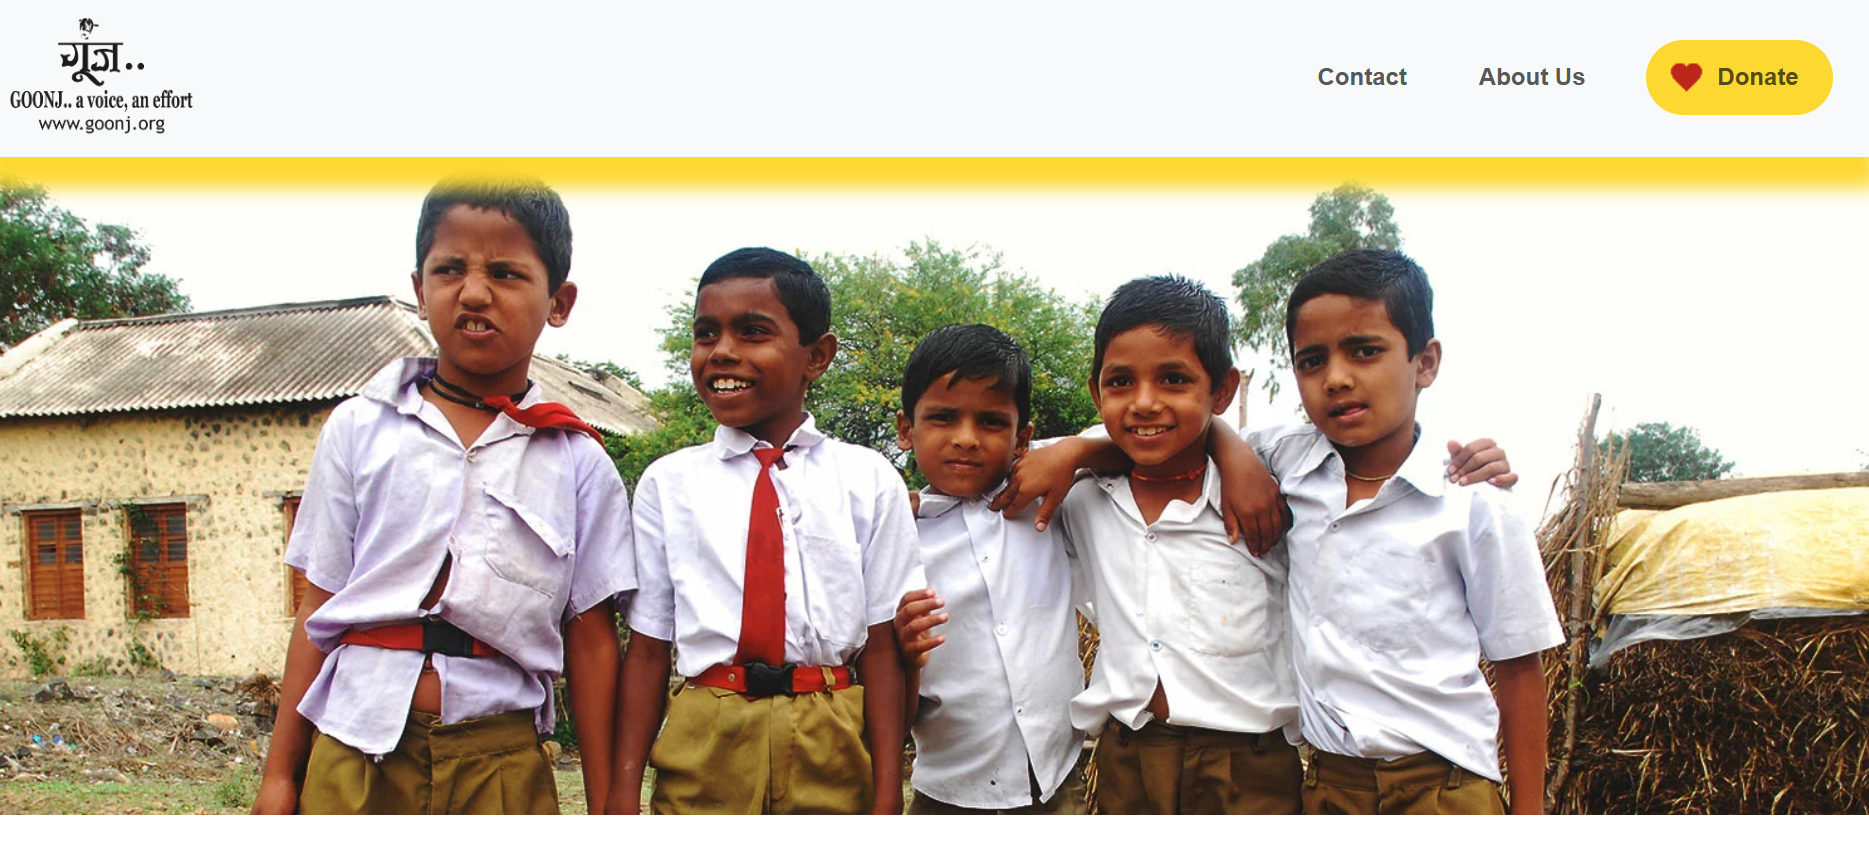
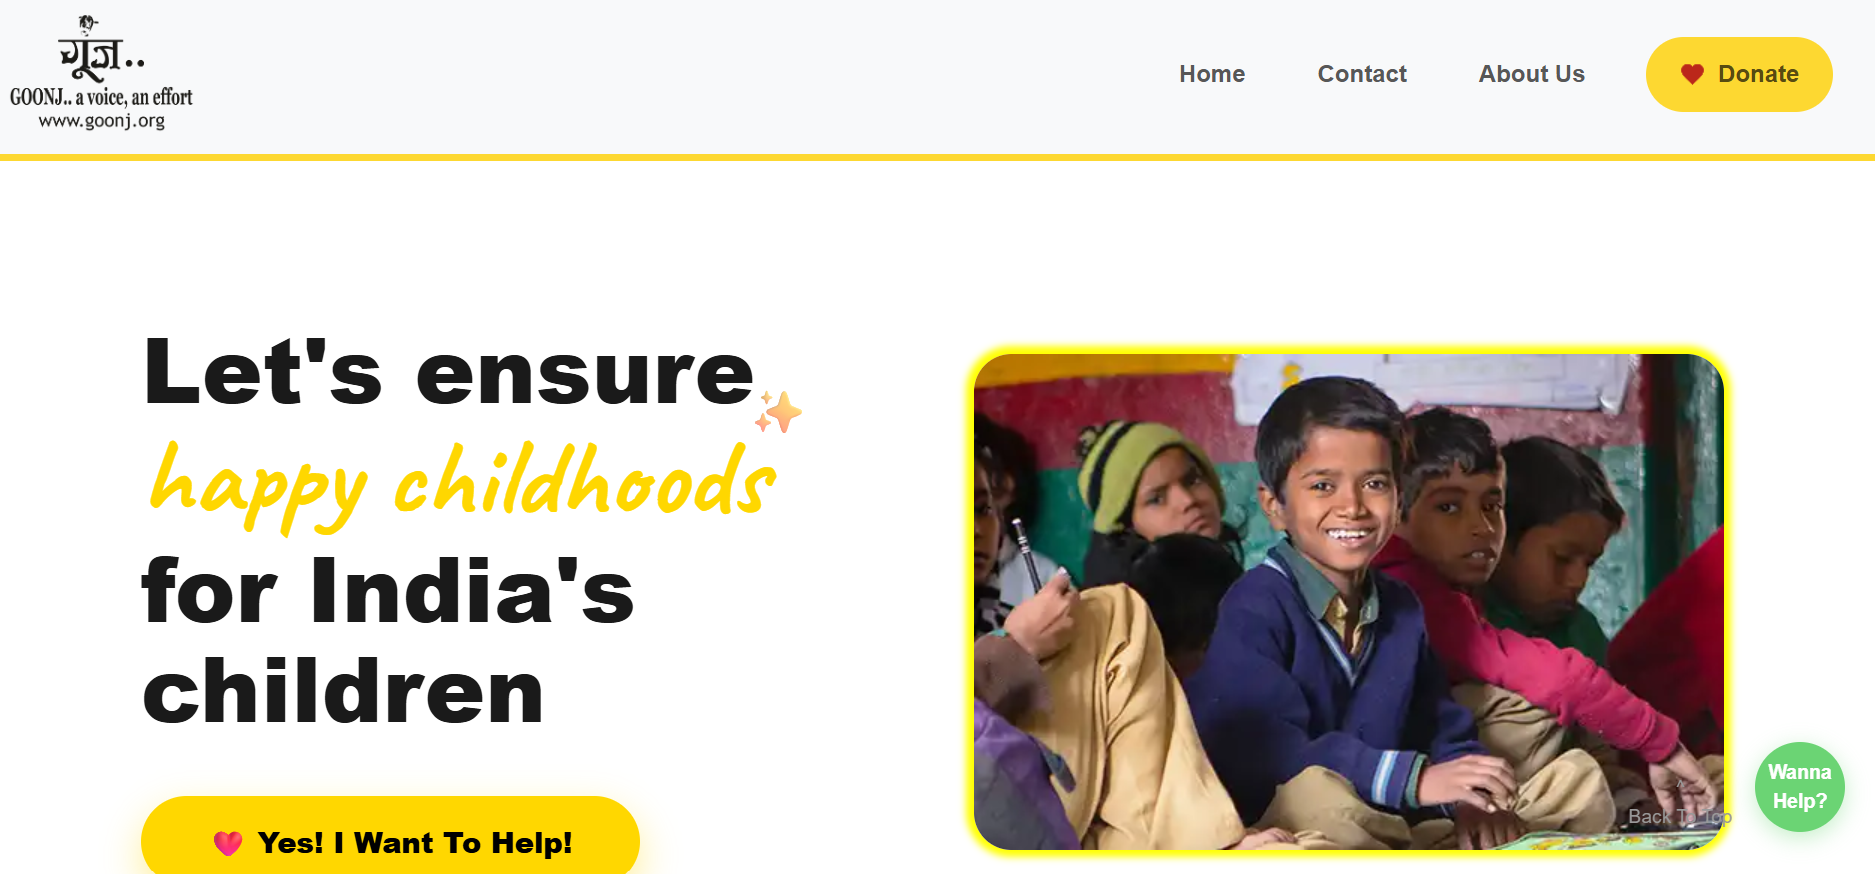
Live Demo and Github Added in NGO Website

diff --git a/index.html b/index.html
@@ -247,8 +247,8 @@
                 <h3>NGO Website</h3>
 
                 <div class="project-links">
-                    <a href="#">Live Demo</a>
-                    <a href="#">GitHub</a>
+                    <a href="https://ngo-website-goonj-a-voice-an-effort.vercel.app/">Live Demo</a>
+                    <a href="https://github.com/Garvit-Rahoria/NGO-Website">GitHub</a>
                 </div>
 
             </div>
